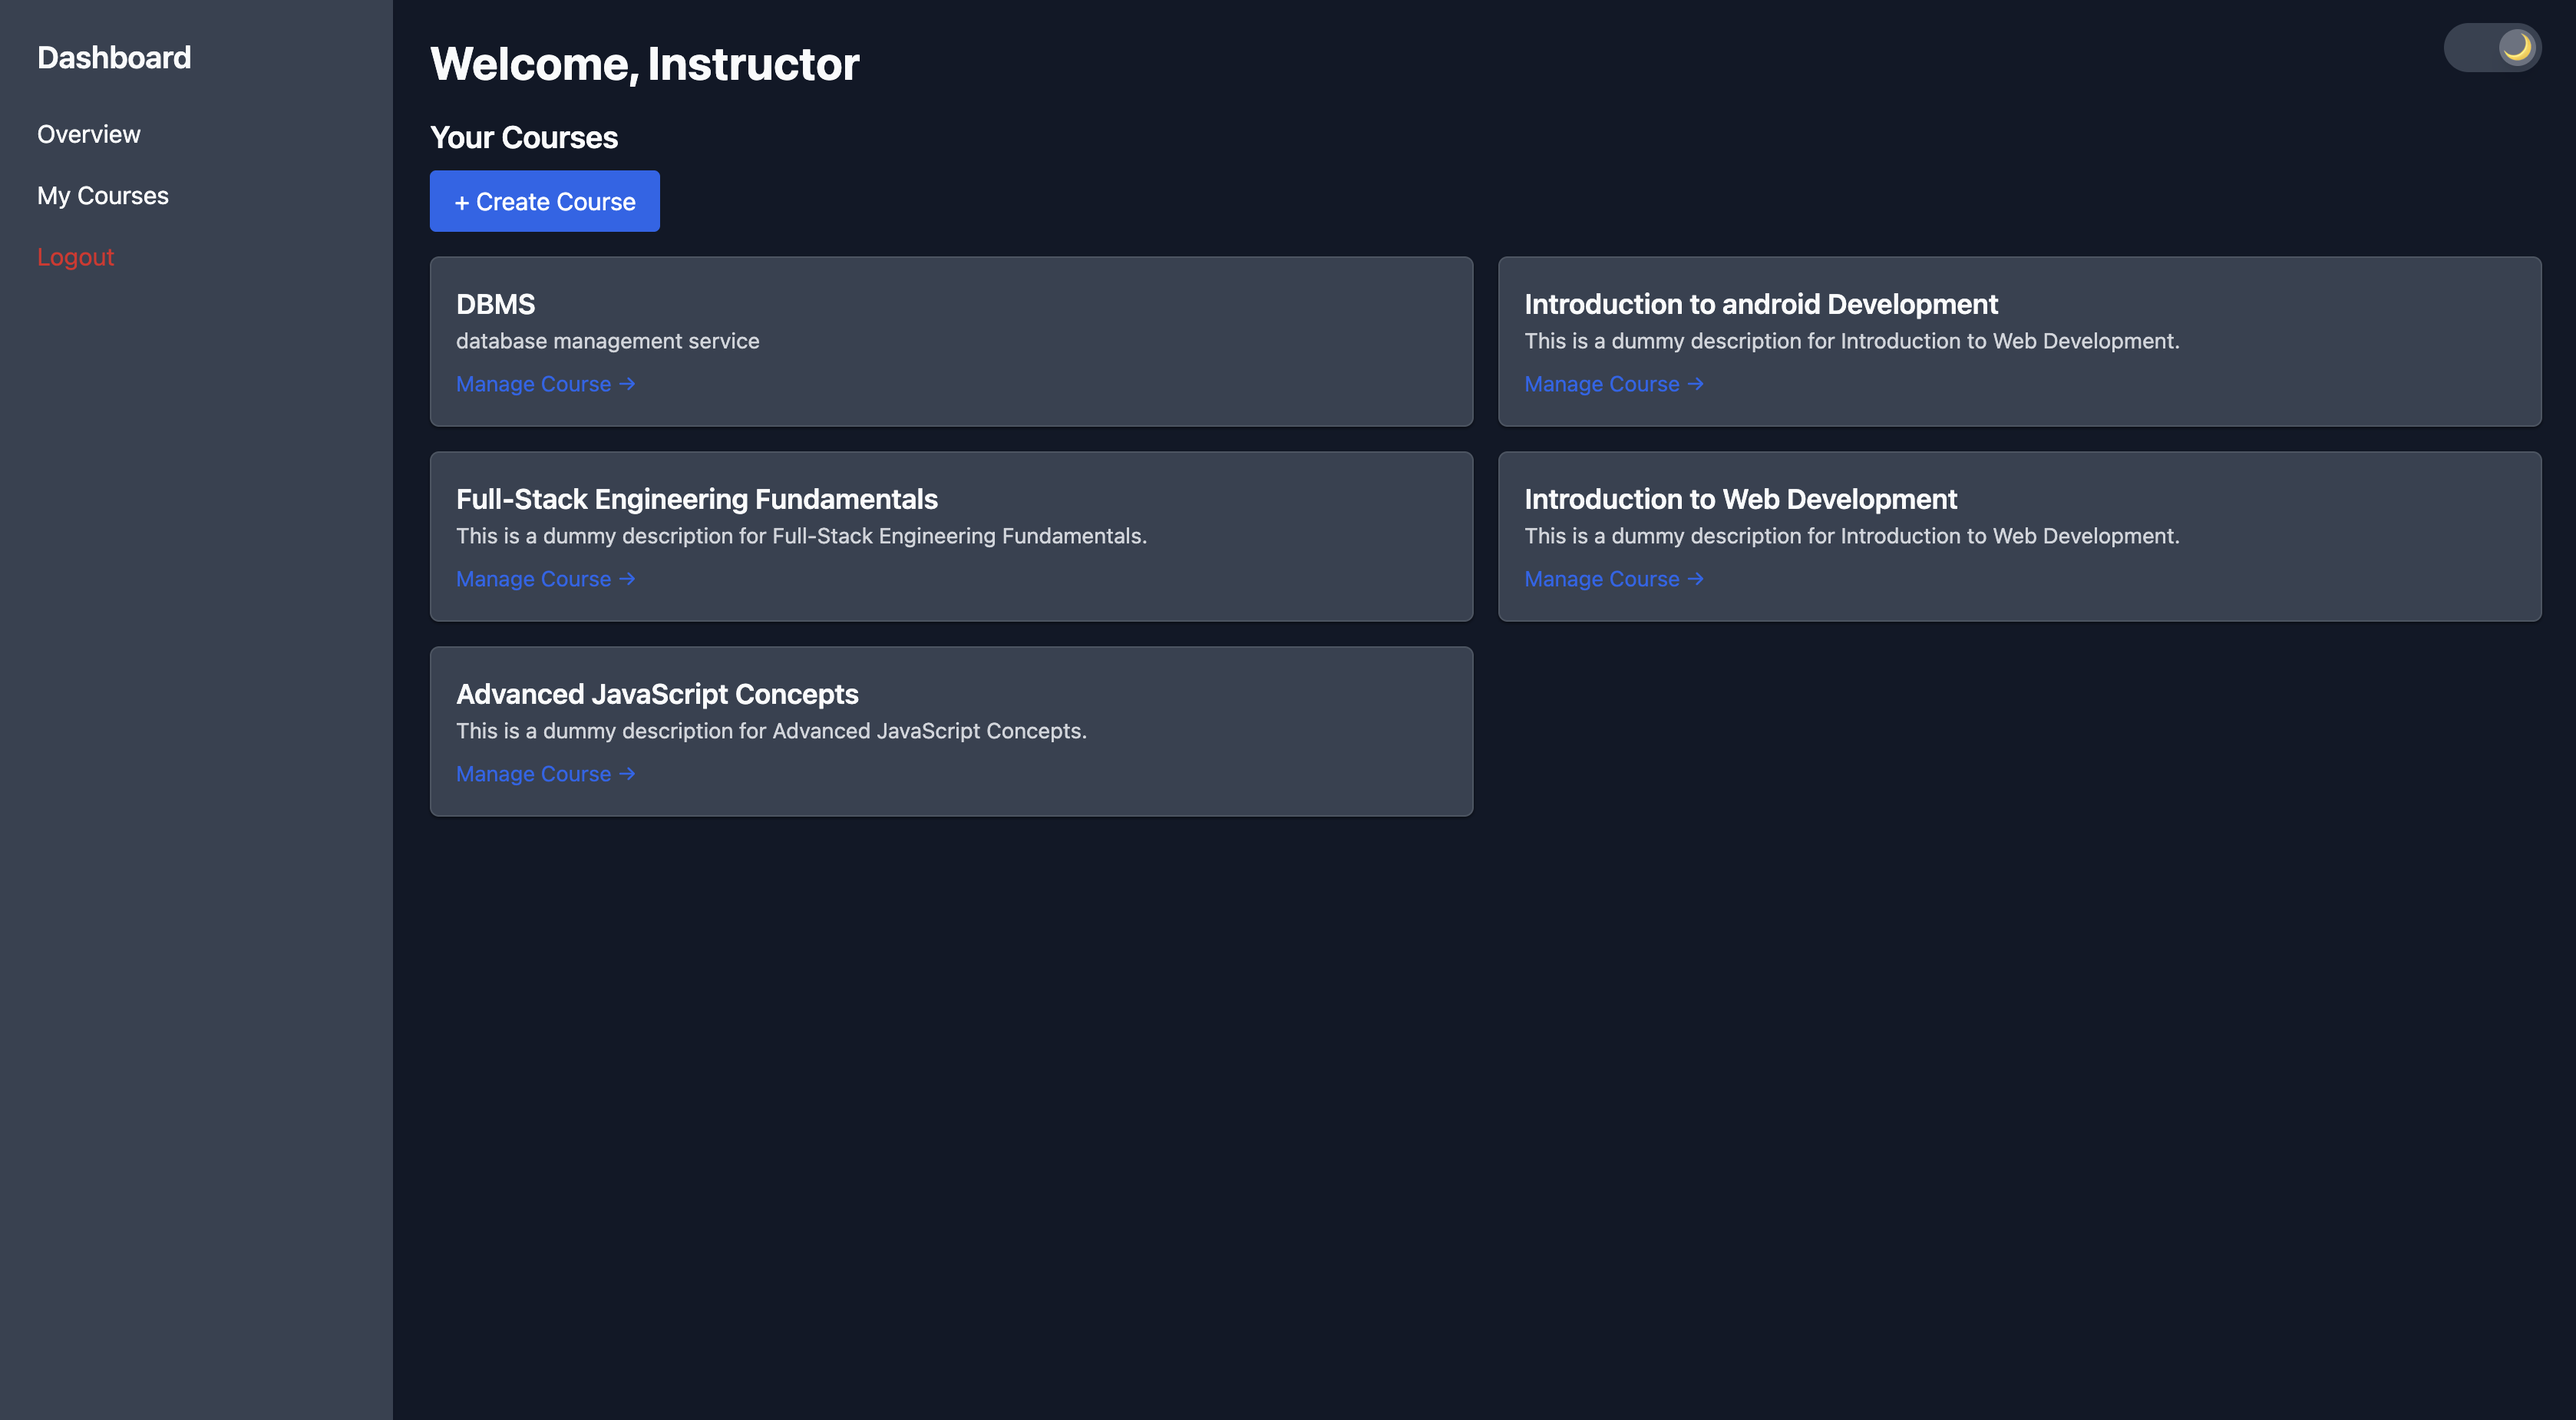
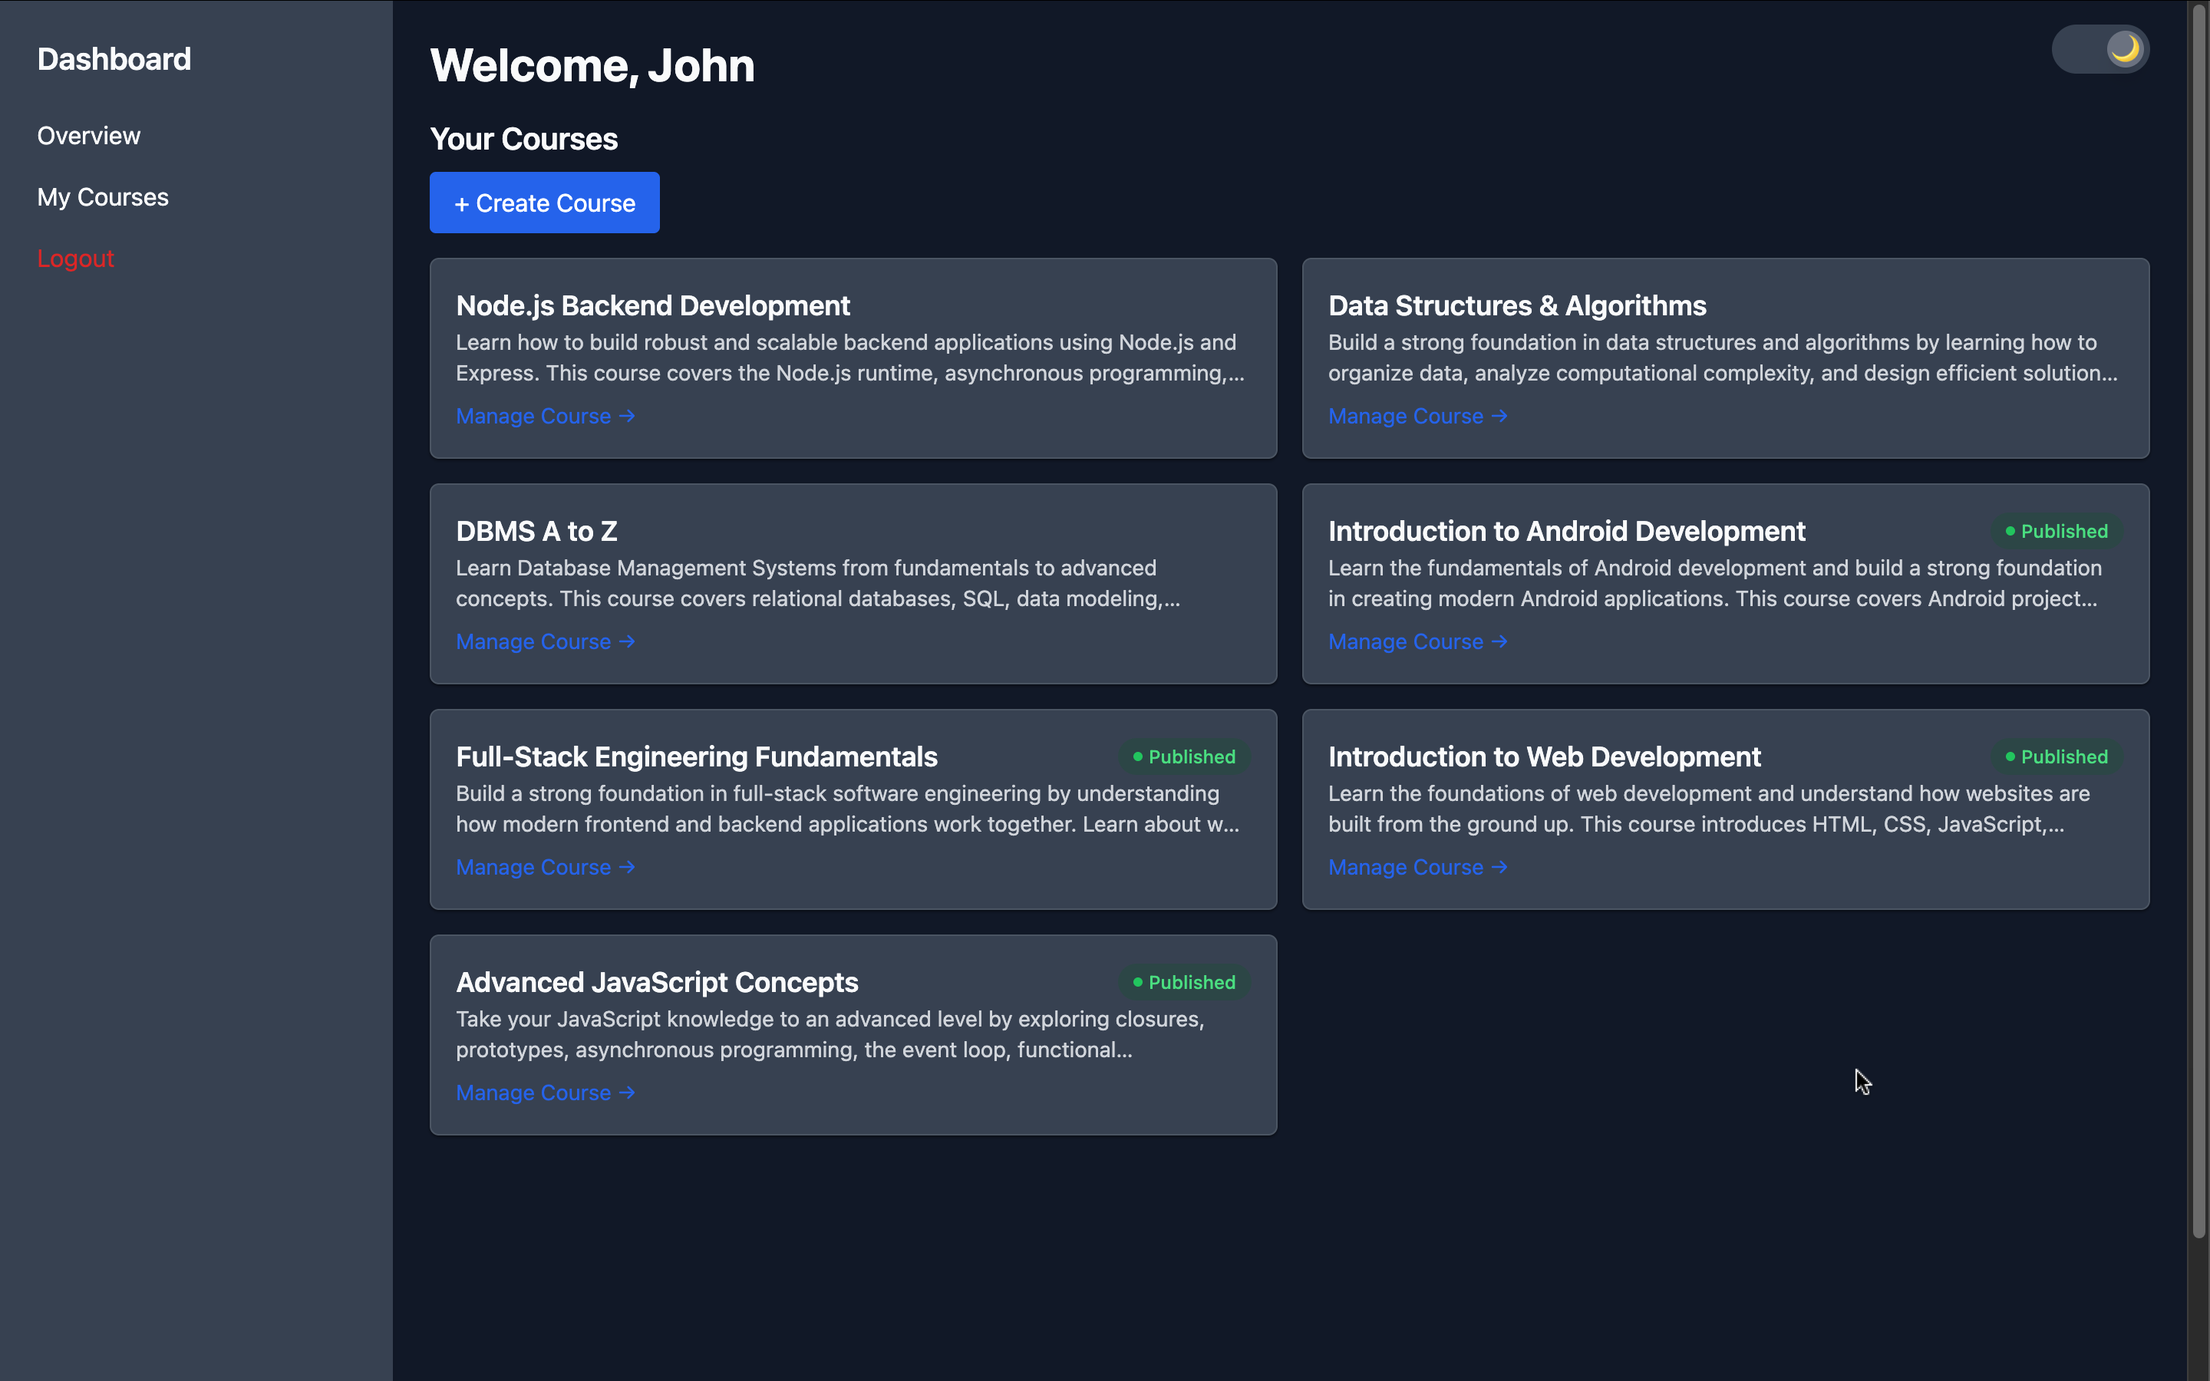
feat(portfolio): add two new project entries

Changed region(s): [[0.125, 0.0, 1.0, 1.0], [0.0, 0.0933, 0.0938, 0.1556], [0.0, 0.0311, 0.0938, 0.0622]]

diff --git a/project.html b/project.html
@@ -1,4 +1,4 @@
-<!DOCTYPE html>
+<!doctype html>
 <html>
   <head>
     <meta charset="utf-8" />
@@ -32,7 +32,7 @@
           <h5>Pruthwiraj Nayak</h5>
         </a>
         <div class="col-2">
-          <button class="toggle-button" onclick=" darkMode()">
+          <button class="toggle-button" onclick="darkMode()">
             <i id="db" class="fas fa-sun"></i>
           </button>
         </div>
@@ -57,7 +57,7 @@
                   <div class="row">
                     <div class="col-md-12">
                       <h5 class="card-title">
-                        <b>EMS</b>
+                        <b>EduNexus</b>
                       </h5>
                     </div>
                     <div class="col-md-12">
@@ -101,6 +101,103 @@
           </div>
         </div>
         <div class="col-md-2"></div>
+
+        <div class="col-md-1"></div>
+        <div class="project col-md-9">
+          <div class="card h-100">
+            <div class="card-body">
+              <div class="row">
+                <div class="col-lg-7">
+                  <div class="row">
+                    <div class="col-md-12">
+                      <h5 class="card-title">
+                        <b>StockSync</b>
+                      </h5>
+                    </div>
+                    <div class="col-md-12">
+                      <p class="card-text text-justify">
+                        A microservices-based inventory and order management
+                        system demonstrating event-driven architecture, the Saga
+                        pattern, and distributed transactions.
+                      </p>
+                    </div>
+                    <div class="col-lg-4 col-md-4 col-sm-6 col-6 view-demo">
+                      <a
+                        href="https://github.com/Raj2367/stocksync"
+                        target="_blank"
+                      >
+                        <img
+                          class="github"
+                          src="./public/icons/GitHub_Invertocat_Black_Clearspace.png"
+                          alt="github"
+                        />Github repo
+                      </a>
+                    </div>
+                  </div>
+                </div>
+                <div class="col-lg-5">
+                  <img
+                    class="project-img"
+                    src="./public/images/stocksync.png"
+                    alt="Card image cap"
+                  />
+                </div>
+              </div>
+            </div>
+          </div>
+        </div>
+        <div class="col-md-2"></div>
+
+        <div class="col-md-1"></div>
+        <div class="project col-md-9">
+          <div class="card h-100">
+            <div class="card-body">
+              <div class="row">
+                <div class="col-lg-7">
+                  <div class="row">
+                    <div class="col-md-12">
+                      <h5 class="card-title">
+                        <b>TMS</b>
+                      </h5>
+                    </div>
+                    <div class="col-md-12">
+                      <p class="card-text text-justify">
+                        Real-time and collaborative Kanban board for Companies
+                        to manage and track their projects
+                      </p>
+                    </div>
+                    <div class="col-lg-4 col-md-4 col-sm-6 col-6 view-demo">
+                      <a href="https://github.com/Raj2367/TMS" target="_blank">
+                        <img
+                          class="github"
+                          src="./public/icons/GitHub_Invertocat_Black_Clearspace.png"
+                          alt="github"
+                        />Github repo
+                      </a>
+                    </div>
+                    <div class="col-lg-4 col-md-4 col-sm-6 col-6 view-demo">
+                      <a
+                        href="https://drive.google.com/file/d/1rgqpofqAZCQ4w98e-hAndiRkcJmyn0hM/view"
+                        target="_blank"
+                      >
+                        🚀 View Demo
+                      </a>
+                    </div>
+                  </div>
+                </div>
+                <div class="col-lg-5">
+                  <img
+                    class="project-img"
+                    src="./public/images/tms.png"
+                    alt="Card image cap"
+                  />
+                </div>
+              </div>
+            </div>
+          </div>
+        </div>
+        <div class="col-md-2"></div>
+
         <div class="col-md-1"></div>
         <div class="project col-md-9">
           <div class="card h-100">

diff --git a/index.html b/index.html
@@ -28,9 +28,7 @@
   <body>
     <div class="container main">
       <div class="header row">
-        <div class="author-name col-10">
-          <h5>Pruthwiraj Nayak</h5>
-        </div>
+        <div class="author-name col-10"></div>
         <div class="col-2">
           <button class="toggle-button" onclick=" darkMode()">
             <i id="db" class="fas fa-sun"></i>

diff --git a/css/project.css b/css/project.css
@@ -51,11 +51,11 @@
 }
 
 .project-img {
-    height: 100%;
+    height: 20vh;
     width: 100%;
     padding-left: 5%;
 }
 
-.footer-section{
+.footer-section {
     margin: 20px;
 }
